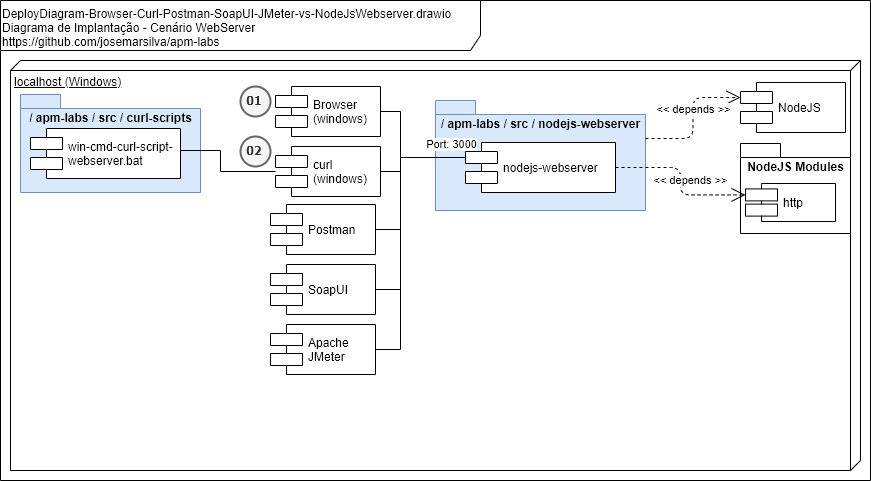
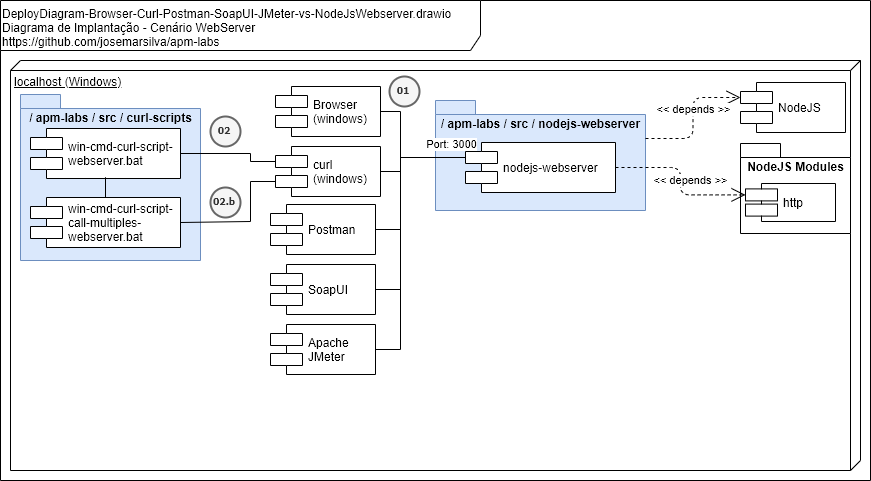
README.md e ./doc/*

Changed region(s): [[0.0, 0.3742, 0.279, 0.5613], [0.217, 0.1559, 0.31, 0.3742], [0.434, 0.1559, 0.496, 0.2183]]

diff --git a/README.md b/README.md
@@ -154,13 +154,13 @@ $ rm apache-jmeter-5.3.tgz
 * **Tipo de Testes**: *Teste de Carga*
 * **Ciclos e Cenários**: Executar um único ciclo para cada cenário com cada uma das ferramentas
 
-| Cenário     | Detalhamento |
-| :---------- | :---         |
-| Cenário-01  | *Teste de Carga (Load Test)* da aplicação com um `Browser` |
-| Cenário-02  | *Teste de Carga (Load Test)* da aplicação com um `Curl(windows)` com variações de quantidades, rampa de subida, tempo e vazão |
-| Cenário-03  | *Teste de Carga (Load Test)* da aplicação com um `Postman` |
-| Cenário-04  | *Teste de Carga (Load Test)* da aplicação com um `SoapUI` |
-| Cenário-05  | *Teste de Carga (Load Test)* da aplicação com um `JMeter` |
+| Cenário | Detalhamento |
+| :------ | :---         |
+| 01      | *Teste de Carga (Load Test)* da aplicação com um `Browser` |
+| 02      | *Teste de Carga (Load Test)* da aplicação com um `Curl(windows)` com variações de quantidades, rampa de subida, tempo e vazão |
+| 03      | *Teste de Carga (Load Test)* da aplicação com um `Postman` |
+| 04      | *Teste de Carga (Load Test)* da aplicação com um `SoapUI` |
+| 05      | *Teste de Carga (Load Test)* da aplicação com um `JMeter` |
 
 
 * **Quantidades, rampa de subida, tempo e vazão**:
@@ -213,6 +213,29 @@ nodejs-webserver> node nodejs-webserver.js
   * Agora clique no botão F5(Refresh) a quantidade de vezes planejadas (kkkkkk)
   * Marque a data e hora final
   * Encontre a diferença de tempo entre data e hora final e inicial em segundos e divida pela quantidade
+  * Pronto! Você encontrou a *métrica* de *TPS - Transações por Segundos* deste cenário
+
+* *Encerrar* o teste do cenário dando ^C na tela do Windows Command que está rodando o `nodejs-webserver.js`
+
+###### Cenário-02
+
+* *Iniciar* o servidor web local *nodejs-webserver*
+
+```cmd
+apm-labs> cd src/nodejs-webserver
+nodejs-webserver> node nodejs-webserver.js
+```
+
+* *Executar* os *Teste de Carga (Load Test)* com o `Cenário-02`:
+  * Execute `win-cmd-curl-script-webserver.bat`
+  * Marque a data/hora inicial e final
+  * Encontre a diferença de tempo entre data/hora final e inicial em segundos e divida pela quantidade
+  * Pronto! Você encontrou a *métrica* de *TPS - Transações por Segundos* deste cenário
+
+* *Executar* os *Teste de Carga (Load Test)* com o `Cenário-02.b`:
+  * Execute `win-cmd-curl-script-call-multiples-webserver.bat`
+  * Obtenha a data/hora inicial e final em cada um dos arquivos (.log) de nomenclatura `win-cmd-curl-script-call-multiples-webserver-*.log`
+  * Encontre a diferença média entre a data/hora final e inicial em segundos e divida pela quantidade
   * Pronto! Você encontrou a *métrica* de *TPS - Transações por Segundos* deste cenário
 
 * *Encerrar* o teste do cenário dando ^C na tela do Windows Command que está rodando o `nodejs-webserver.js`
